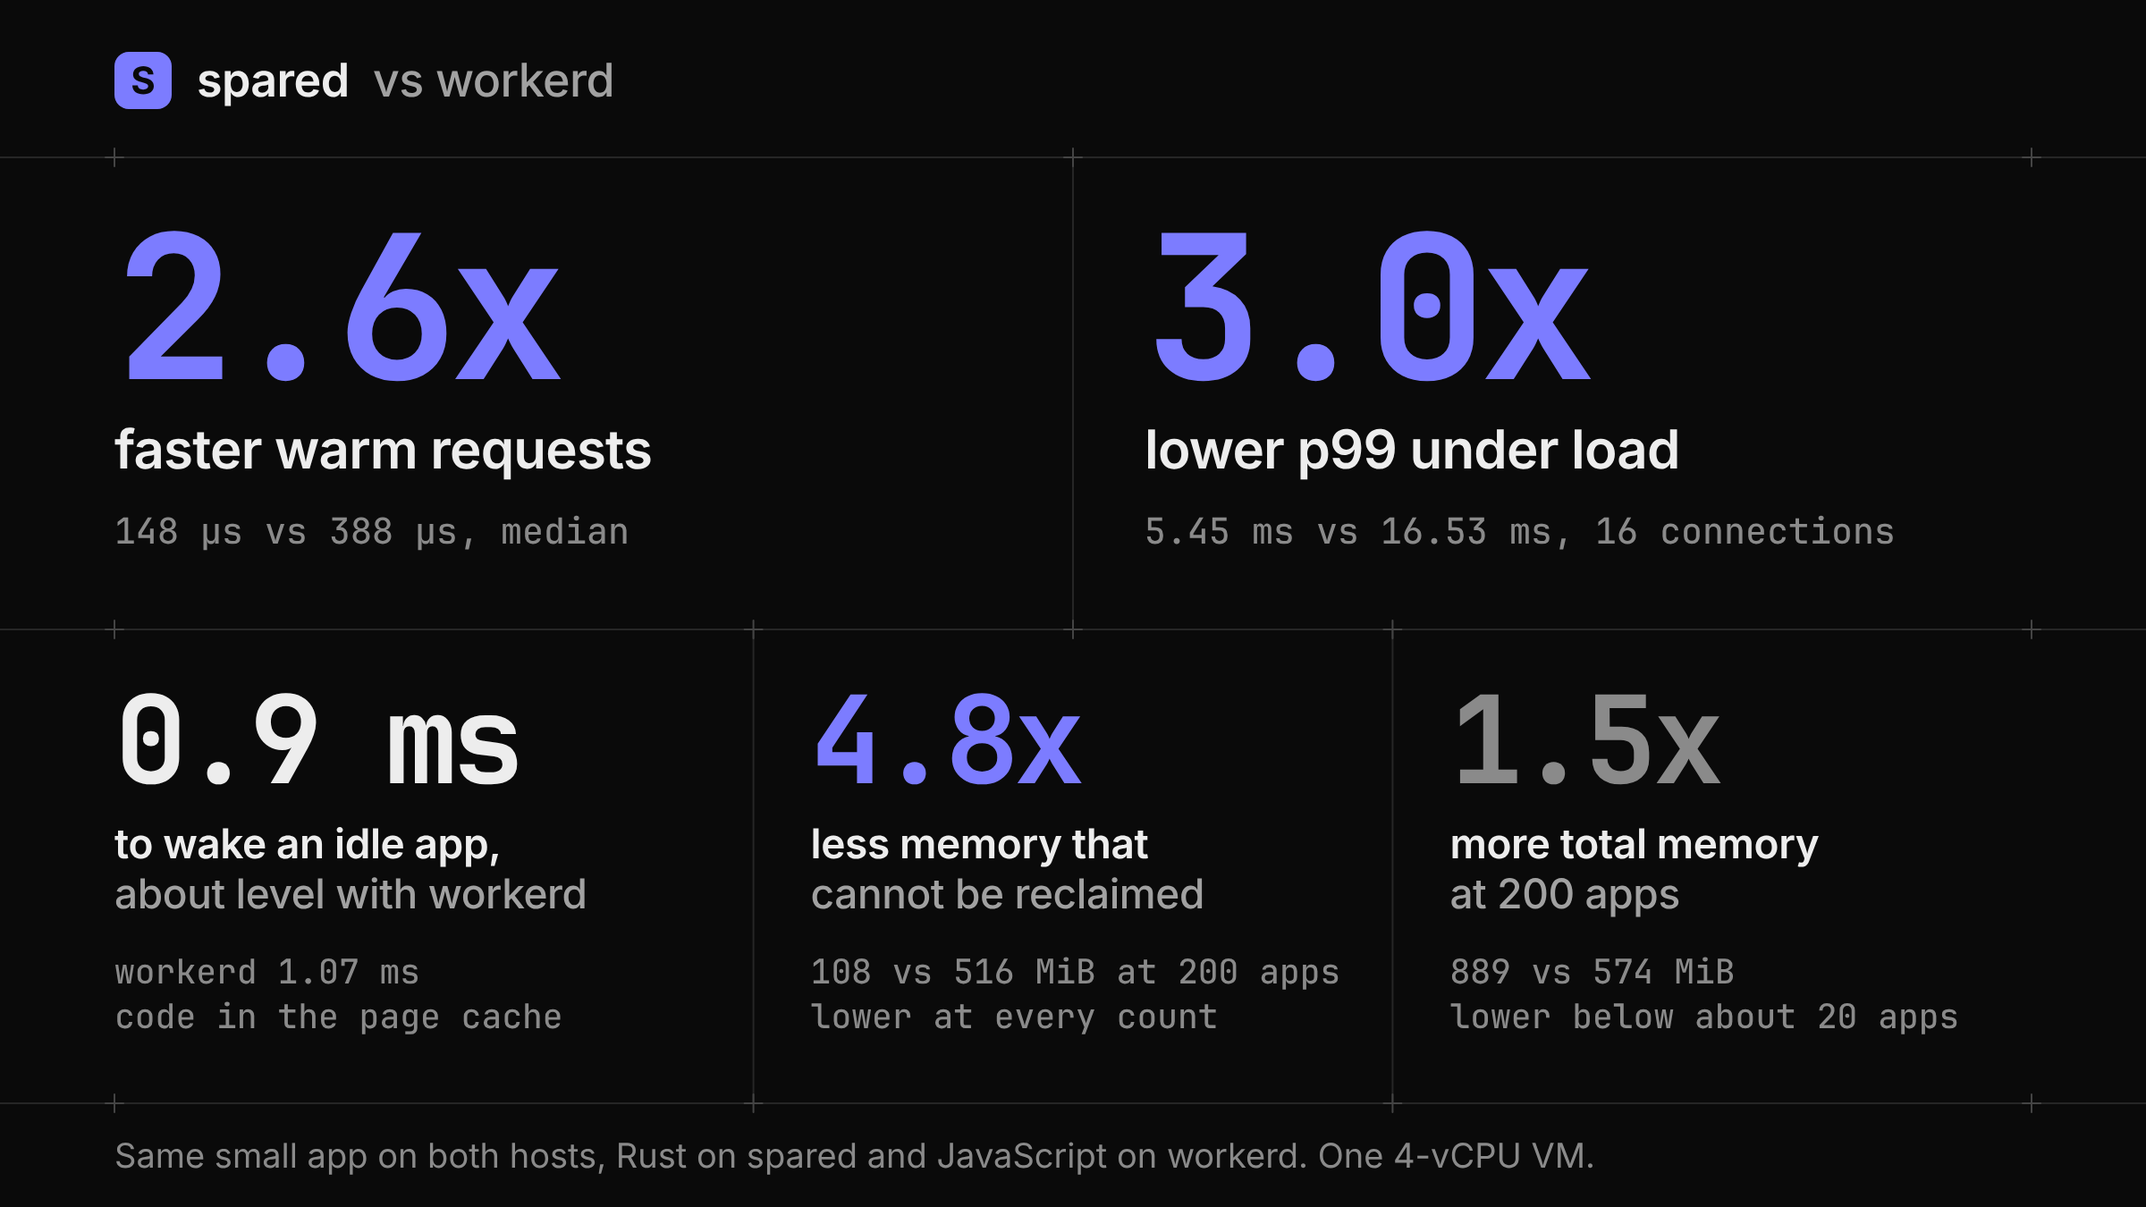
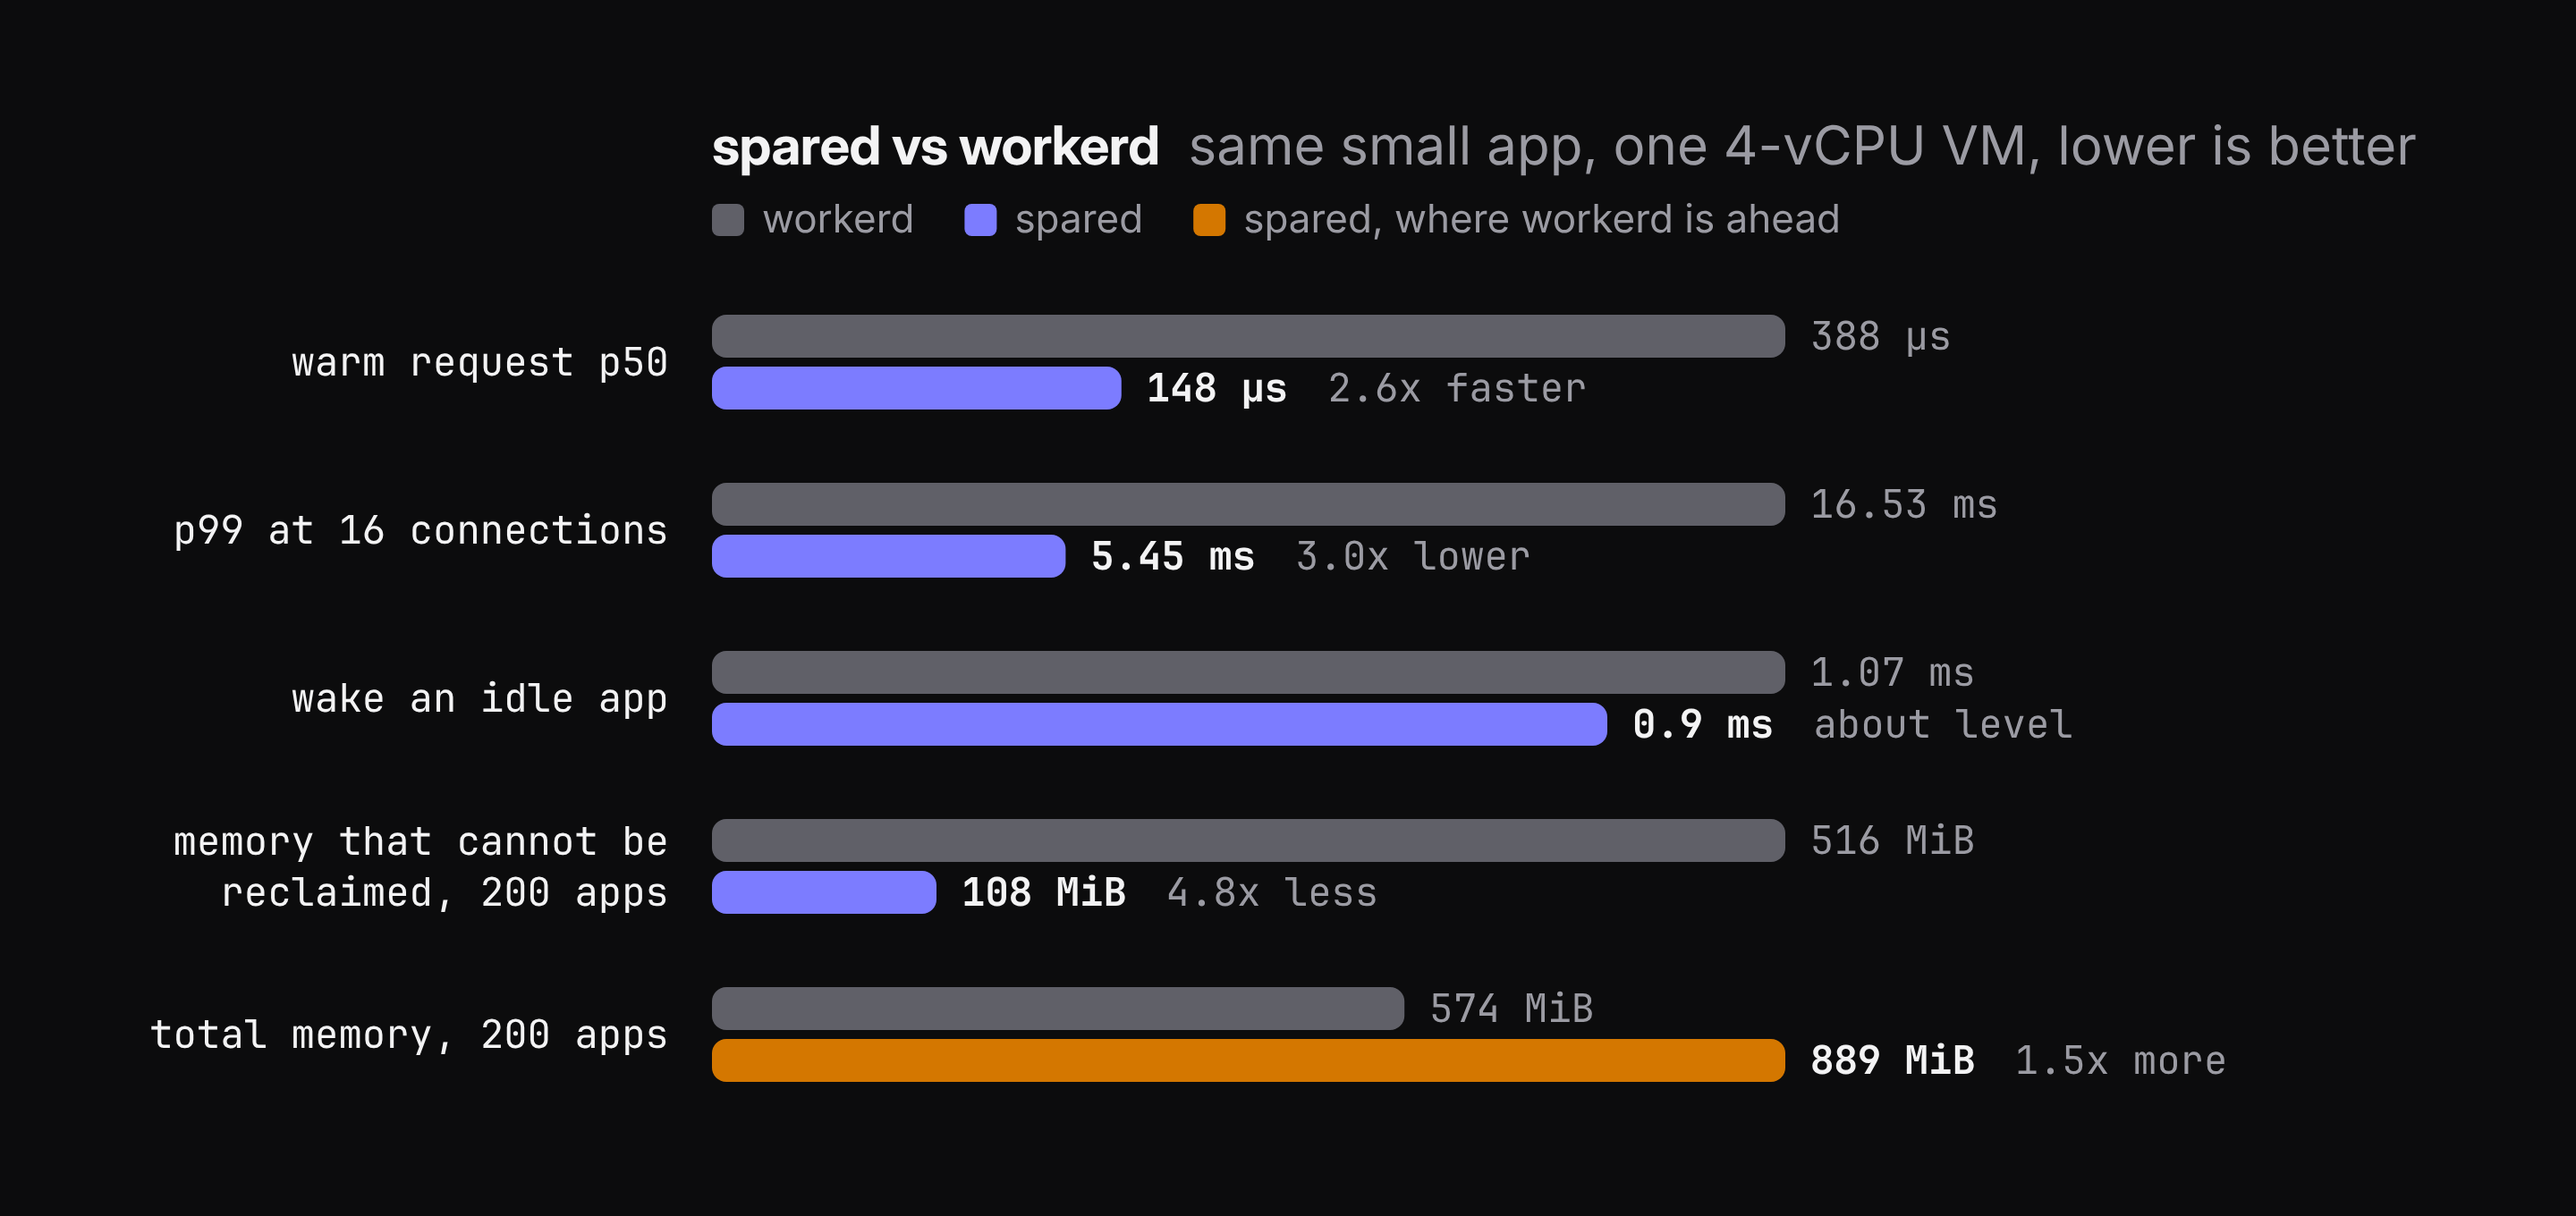
Redo the README picture as a clean bar chart
Same numbers as before, drawn as paired bars with one accent color and no
frame. The alt text now describes the chart.

diff --git a/README.md b/README.md
@@ -8,7 +8,7 @@ It's like Cloudflare Workers plus Durable Objects, but self-hosted, and with bet
 
 <picture>
   <source media="(prefers-color-scheme: dark)" srcset="docs/img/pitch-dark.png">
-  <img src="docs/img/pitch-light.png" alt="spared against workerd on the same small app, one 4-vCPU VM: 2.6x faster warm requests (148 against 388 microseconds at the median), 3.0x lower p99 under load (5.45 against 16.53 ms at 16 connections), 0.9 ms to wake an idle app whose code is in the page cache, about level with workerd (1.07 ms), 4.8x less memory that cannot be reclaimed (108 against 516 MiB at 200 apps), and 1.5x more total memory at 200 apps (889 against 574 MiB), lower below about 20 apps.">
+  <img src="docs/img/pitch-light.png" alt="Bar chart of spared against workerd on the same small app, one 4-vCPU VM, lower is better. Warm request p50: 148 against 388 microseconds, 2.6x faster. p99 at 16 connections: 5.45 against 16.53 ms, 3.0x lower. Waking an idle app: 0.9 against 1.07 ms, about level. Memory that cannot be reclaimed at 200 apps: 108 against 516 MiB, 4.8x less. Total memory at 200 apps: 889 against 574 MiB, where spared uses 1.5x more.">
 </picture>
 
 - **Faster warm requests.** 2.6x faster than workerd at the median (148 against 388 microseconds).
